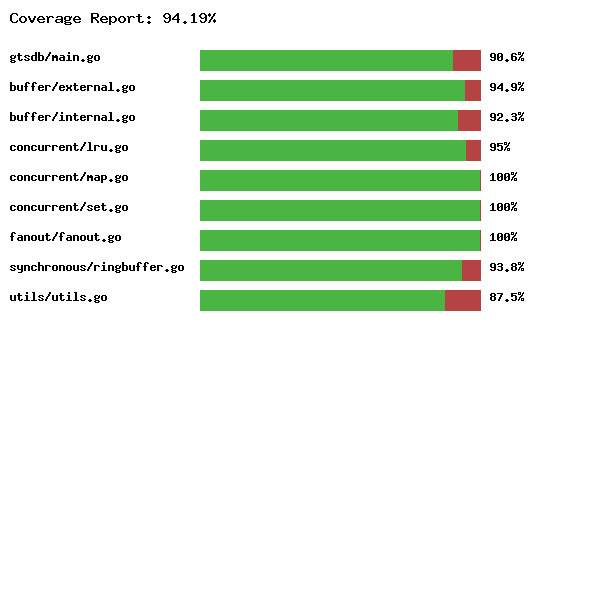
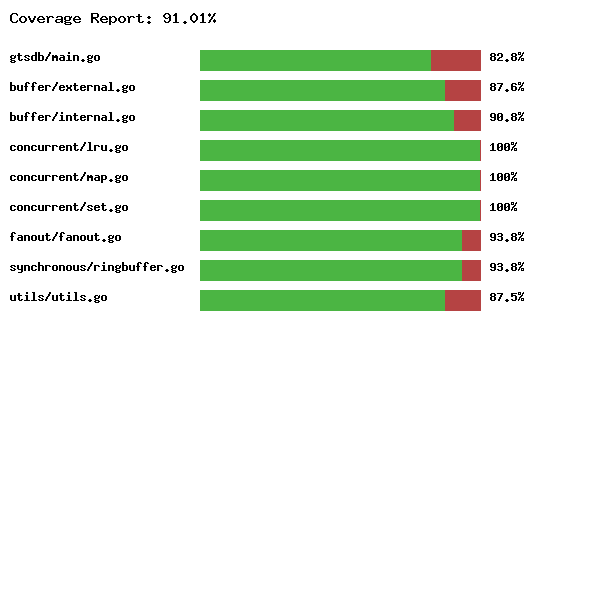
refactor: update README to replace 'id' with 'key' in JSON examples for consistency

diff --git a/docs/coverage.html b/docs/coverage.html
@@ -55,19 +55,19 @@
 			<div id="nav">
 				<select id="files">
 				
-				<option value="file0">gtsdb/buffer/external.go (94.9%)</option>
+				<option value="file0">gtsdb/buffer/external.go (87.6%)</option>
 				
-				<option value="file1">gtsdb/buffer/internal.go (92.3%)</option>
+				<option value="file1">gtsdb/buffer/internal.go (90.8%)</option>
 				
-				<option value="file2">gtsdb/concurrent/lru.go (95.0%)</option>
+				<option value="file2">gtsdb/concurrent/lru.go (100.0%)</option>
 				
 				<option value="file3">gtsdb/concurrent/map.go (100.0%)</option>
 				
 				<option value="file4">gtsdb/concurrent/set.go (100.0%)</option>
 				
-				<option value="file5">gtsdb/fanout/fanout.go (100.0%)</option>
+				<option value="file5">gtsdb/fanout/fanout.go (93.8%)</option>
 				
-				<option value="file6">gtsdb/main.go (90.6%)</option>
+				<option value="file6">gtsdb/main.go (82.8%)</option>
 				
 				<option value="file7">gtsdb/synchronous/ringbuffer.go (93.8%)</option>
 				
@@ -197,24 +197,25 @@ func DeleteKey(dataPointId string) <span class="cov8" title="1">{
 }
 
 func StoreDataPointBuffer(dataPoint models.DataPoint) <span class="cov8" title="1">{
-        allIds.Add(dataPoint.ID)
+        allIds.Add(dataPoint.Key)
+
         if cacheSize == 0 </span><span class="cov8" title="1">{
-                storeDataPoints(dataPoint.ID, []models.DataPoint{dataPoint})
+                storeDataPoints(dataPoint.Key, []models.DataPoint{dataPoint})
                 return
         }</span>
 
-        <span class="cov8" title="1">rb, ok := idToRingBufferMap.Load(dataPoint.ID)
-        if !ok </span><span class="cov8" title="1">{
+        <span class="cov0" title="0">rb, ok := idToRingBufferMap.Load(dataPoint.Key)
+        if !ok </span><span class="cov0" title="0">{
                 newRb := synchronous.NewRingBuffer[models.DataPoint](cacheSize)
-                idToRingBufferMap.Store(dataPoint.ID, newRb)
+                idToRingBufferMap.Store(dataPoint.Key, newRb)
                 rb = newRb
         }</span>
-        <span class="cov8" title="1">rb.Push(dataPoint)
+        <span class="cov0" title="0">rb.Push(dataPoint)
 
-        storeDataPoints(dataPoint.ID, []models.DataPoint{dataPoint})
+        storeDataPoints(dataPoint.Key, []models.DataPoint{dataPoint})
 
-        lastValue[dataPoint.ID] = dataPoint.Value
-        lastTimestamp[dataPoint.ID] = dataPoint.Timestamp</span>
+        lastValue.Store(dataPoint.Key, dataPoint.Value)
+        lastTimestamp.Store(dataPoint.Key, dataPoint.Timestamp)</span>
 }
 
 func PatchDataPoints(dataPoints []models.DataPoint, key string) <span class="cov8" title="1">{
@@ -296,7 +297,7 @@ func ReadDataPoints(id string, startTime, endTime int64, downsample int, aggrega
 
 func ReadLastDataPoints(id string, count int) []models.DataPoint <span class="cov8" title="1">{
 
-        if checkIfBufferHasEnoughDataPoints(id, count) </span><span class="cov8" title="1">{
+        if checkIfBufferHasEnoughDataPoints(id, count) </span><span class="cov0" title="0">{
                 return readLastBufferedDataPoints(id, count)
         }</span>
 
@@ -326,7 +327,7 @@ func FormatDataPoints(dataPoints []models.DataPoint) string <span class="cov8" t
         var response string
 
         for i, dp := range dataPoints </span><span class="cov8" title="1">{
-                response += fmt.Sprintf("%s,%d,%.2f", dp.ID, dp.Timestamp, dp.Value)
+                response += fmt.Sprintf("%s,%d,%.2f", dp.Key, dp.Timestamp, dp.Value)
                 if i &lt; len(dataPoints)-1 </span><span class="cov8" title="1">{
                         response += "|"
                 }</span>
@@ -467,7 +468,7 @@ func readLastFiledDataPoints(id string, count int) ([]models.DataPoint, error) <
                 }
 
                 <span class="cov8" title="1">dataPoints = append(dataPoints, models.DataPoint{
-                        ID:        id,
+                        Key:       id,
                         Timestamp: timestamp,
                         Value:     value,
                 })</span>
@@ -548,7 +549,7 @@ func readFiledDataPoints(id string, startTime int64, endTime int64) []models.Dat
 
                 <span class="cov8" title="1">if timestamp &gt;= startTime &amp;&amp; timestamp &lt;= endTime </span><span class="cov8" title="1">{
                         dataPoints = append(dataPoints, models.DataPoint{
-                                ID:        id,
+                                Key:       id,
                                 Timestamp: timestamp,
                                 Value:     value,
                         })
@@ -571,7 +572,7 @@ func readBufferedDataPoints(id string, startTime, endTime int64) []models.DataPo
         <span class="cov8" title="1">var result []models.DataPoint
         for i := 0; i &lt; rb.Size(); i++ </span><span class="cov8" title="1">{
                 dataPoint := rb.Get(i)
-                dataPoint.ID = id
+                dataPoint.Key = id
                 if dataPoint.Timestamp &gt;= startTime &amp;&amp; dataPoint.Timestamp &lt;= endTime </span><span class="cov8" title="1">{
                         result = append(result, dataPoint)
                 }</span>
@@ -584,13 +585,17 @@ func checkIfBufferHasEnoughDataPoints(id string, count int) bool <span class="co
         if !ok </span><span class="cov8" title="1">{
                 return false
         }</span>
-        <span class="cov8" title="1">return rb.Size() &gt;= count</span>
+        <span class="cov0" title="0">return rb.Size() &gt;= count</span>
 }
 
 func readLastBufferedDataPoints(id string, count int) []models.DataPoint <span class="cov8" title="1">{
-        if count == 1 &amp;&amp; lastTimestamp[id] != 0 </span><span class="cov8" title="1">{
-                return []models.DataPoint{{Timestamp: lastTimestamp[id], Value: lastValue[id], ID: id}}
-        }</span>
+        if count == 1 </span><span class="cov8" title="1">{
+                timestampValue, ok := lastTimestamp.Load(id)
+                if ok &amp;&amp; timestampValue != 0 </span><span class="cov0" title="0">{
+                        value, _ := lastValue.Load(id)
+                        return []models.DataPoint{{Timestamp: timestampValue, Value: value, Key: id}}
+                }</span>
+        }
 
         <span class="cov8" title="1">rb, ok := idToRingBufferMap.Load(id)
         if !ok </span><span class="cov8" title="1">{
@@ -646,7 +651,7 @@ func downsampleDataPoints(dataPoints []models.DataPoint, downsample int, aggrega
                                         value = intervalSum / float64(intervalCount)</span>
                                 }
                                 <span class="cov8" title="1">downsampled = append(downsampled, models.DataPoint{
-                                        ID:        dp.ID,
+                                        Key:       dp.Key,
                                         Timestamp: intervalStart,
                                         Value:     value,
                                 })</span>
@@ -690,7 +695,7 @@ func downsampleDataPoints(dataPoints []models.DataPoint, downsample int, aggrega
                         value = intervalSum / float64(intervalCount)</span>
                 }
                 <span class="cov8" title="1">downsampled = append(downsampled, models.DataPoint{
-                        ID:        dataPoints[len(dataPoints)-1].ID,
+                        Key:       dataPoints[len(dataPoints)-1].Key,
                         Timestamp: intervalStart,
                         Value:     value,
                 })</span>
@@ -777,7 +782,7 @@ func (l *LRU[K, V]) moveToFront(node *Node[K, V]) <span class="cov8" title="1">{
         <span class="cov8" title="1">if node == l.tail </span><span class="cov8" title="1">{
                 l.tail = node.prev
                 l.tail.next = nil
-        }</span> else<span class="cov0" title="0"> {
+        }</span> else<span class="cov8" title="1"> {
                 node.prev.next = node.next
                 node.next.prev = node.prev
         }</span>
@@ -973,8 +978,9 @@ func (s *Set[T]) Intersection(other *Set[T]) *Set[T] <span class="cov8" title="1
 		<pre class="file" id="file5" style="display: none">package fanout
 
 import (
+        "gtsdb/concurrent"
         models "gtsdb/models"
-        "sync"
+        "gtsdb/utils"
 )
 
 type Consumer struct {
@@ -983,15 +989,13 @@ type Consumer struct {
 }
 
 type Fanout struct {
-        consumers []*Consumer
+        consumers concurrent.Set[*Consumer]
         messageCh chan models.DataPoint
-        mu        sync.RWMutex
-        wg        sync.WaitGroup
 }
 
 func NewFanout() *Fanout <span class="cov8" title="1">{
         fanoutManager := &amp;Fanout{
-                consumers: make([]*Consumer, 0),
+                consumers: *concurrent.NewSet[*Consumer](),
                 messageCh: make(chan models.DataPoint),
         }
         go fanoutManager.producer()
@@ -999,30 +1003,29 @@ func NewFanout() *Fanout <span class="cov8" title="1">{
 }</span>
 
 func (f *Fanout) AddConsumer(id int, callback func(models.DataPoint)) <span class="cov8" title="1">{
-        f.mu.Lock()
-        defer f.mu.Unlock()
         consumer := &amp;Consumer{ID: id, Callback: callback}
-        f.consumers = append(f.consumers, consumer)
-        f.wg.Add(1)
+        f.consumers.Add(consumer)
 }</span>
 
 func (f *Fanout) GetConsumers() []*Consumer <span class="cov8" title="1">{
-        f.mu.RLock()
-        defer f.mu.RUnlock()
-        return f.consumers
+        return f.consumers.Items()
 }</span>
 
-func (f *Fanout) RemoveConsumer(id int) <span class="cov8" title="1">{
-        f.mu.Lock()
-        defer f.mu.Unlock()
-        for i, c := range f.consumers </span><span class="cov8" title="1">{
+func (f *Fanout) GetConsumer(id int) *Consumer <span class="cov8" title="1">{
+        for _, c := range f.GetConsumers() </span><span class="cov8" title="1">{
                 if c.ID == id </span><span class="cov8" title="1">{
-                        f.consumers = append(f.consumers[:i], f.consumers[i+1:]...)
-                        f.wg.Done()
-                        break</span>
-                }
+                        return c
+                }</span>
         }
+        <span class="cov0" title="0">return nil</span>
 }
+
+func (f *Fanout) RemoveConsumer(id int) <span class="cov8" title="1">{
+
+        f.consumers.Remove(f.GetConsumer(id))
+
+        utils.Log("Removed consumer %d", id)
+}</span>
 
 func (f *Fanout) Publish(msg models.DataPoint) <span class="cov8" title="1">{
         f.messageCh &lt;- msg
@@ -1030,11 +1033,10 @@ func (f *Fanout) Publish(msg models.DataPoint) <span class="cov8" title="1">{
 
 func (f *Fanout) producer() <span class="cov8" title="1">{
         for msg := range f.messageCh </span><span class="cov8" title="1">{
-                f.mu.RLock()
-                for _, c := range f.consumers </span><span class="cov8" title="1">{
+
+                for _, c := range f.GetConsumers() </span><span class="cov8" title="1">{
                         go c.Callback(msg)
                 }</span>
-                <span class="cov8" title="1">f.mu.RUnlock()</span>
         }
 }
 </pre>
@@ -1042,6 +1044,7 @@ func (f *Fanout) producer() <span class="cov8" title="1">{
 		<pre class="file" id="file6" style="display: none">package main
 
 import (
+        "flag"
         "gtsdb/buffer"
         "gtsdb/fanout"
         "gtsdb/handlers"
@@ -1056,8 +1059,18 @@ import (
 )
 
 func main() <span class="cov0" title="0">{
-        run("gtsdb.ini")
-}</span>
+        // Set default config file
+        defaultConfig := "gtsdb.ini"
+
+        // Parse command line arguments
+        flag.Parse()
+        configFile := defaultConfig
+        if args := flag.Args(); len(args) &gt; 0 </span><span class="cov0" title="0">{
+                configFile = args[0]
+        }</span>
+
+        <span class="cov0" title="0">run(configFile)</span>
+}
 
 func run(configFile string) <span class="cov8" title="1">{
         loadConfig(configFile)
@@ -1126,7 +1139,7 @@ func startHTTPServerWithStop(fanoutManager *fanout.Fanout, stop chan struct{}) <
 func loadConfig(iniFile string) <span class="cov8" title="1">{
         utils.Logln("歡迎使用🐹小倉鼠🐹時序資料庫 🐁🐁 ")
         utils.Logln("🎶吱吱🎶吱吱🎶 🐹")
-        utils.Logln("🏃跑🏃跑跑跑🏃 🐹")
+        utils.Log("🏃現在在用 %v 唷", iniFile)
         utils.Log("今天是：%s 哦", time.Now().Format("2006-01-02 15:04:05"))
 
         cfg, err := ini.Load(iniFile)

diff --git a/README.md b/README.md
@@ -48,7 +48,7 @@ go build .
 {
     "operation":"write",
     "Write": {
-        "id" : "a_sensor1",
+        "key" : "a_sensor1",
         "Value": 32242424243333333333.3333
     }
 }
@@ -58,7 +58,7 @@ go build .
 {
     "operation":"read",
     "Read": {
-        "id" : "a_sensor1",
+        "key" : "a_sensor1",
         "start_timestamp": 1717965210,
         "end_timestamp": 1717965211,
         "downsampling": 3
@@ -67,7 +67,7 @@ go build .
 {
     "operation":"read",
     "Read": {
-        "id" : "a_sensor1",
+        "key" : "a_sensor1",
         "lastx": 1
     }
 }
@@ -147,27 +147,10 @@ ok      gtsdb/concurrent        147.859s
 ```
 
 
-
-
-## Done/Todo/Feature list
-
-- [x] Simple Indexing so to avoid full file scanning
-- [x] Downsampling data
-- [x] TCP Server
-- [x] Tests
-- [x] HTTP Server (REST API)
-- [x] More Downsampling options(like sum, min, max, etc.)
-- [x] Do errcheck Handling
-- [x] Subscription and then streaming (cmd: `subscribe,sensor1`, `unsubscribe,sensor1`)
-- [x] Buffering data in memory before writing to disk, this is to serve recent data faster and enhance write performance
-- [x] 80% test coverage ([Report](./docs/coverage.html))
-
 ## Generate Test Coverage Report
 
 ```bash
-go test ./... -coverprofile=docs/coverage -p 1
-go tool cover -html docs/coverage -o docs/coverage.html
-start .\docs\coverage.html
+make GenerateTest
 ```
 
 ## License
